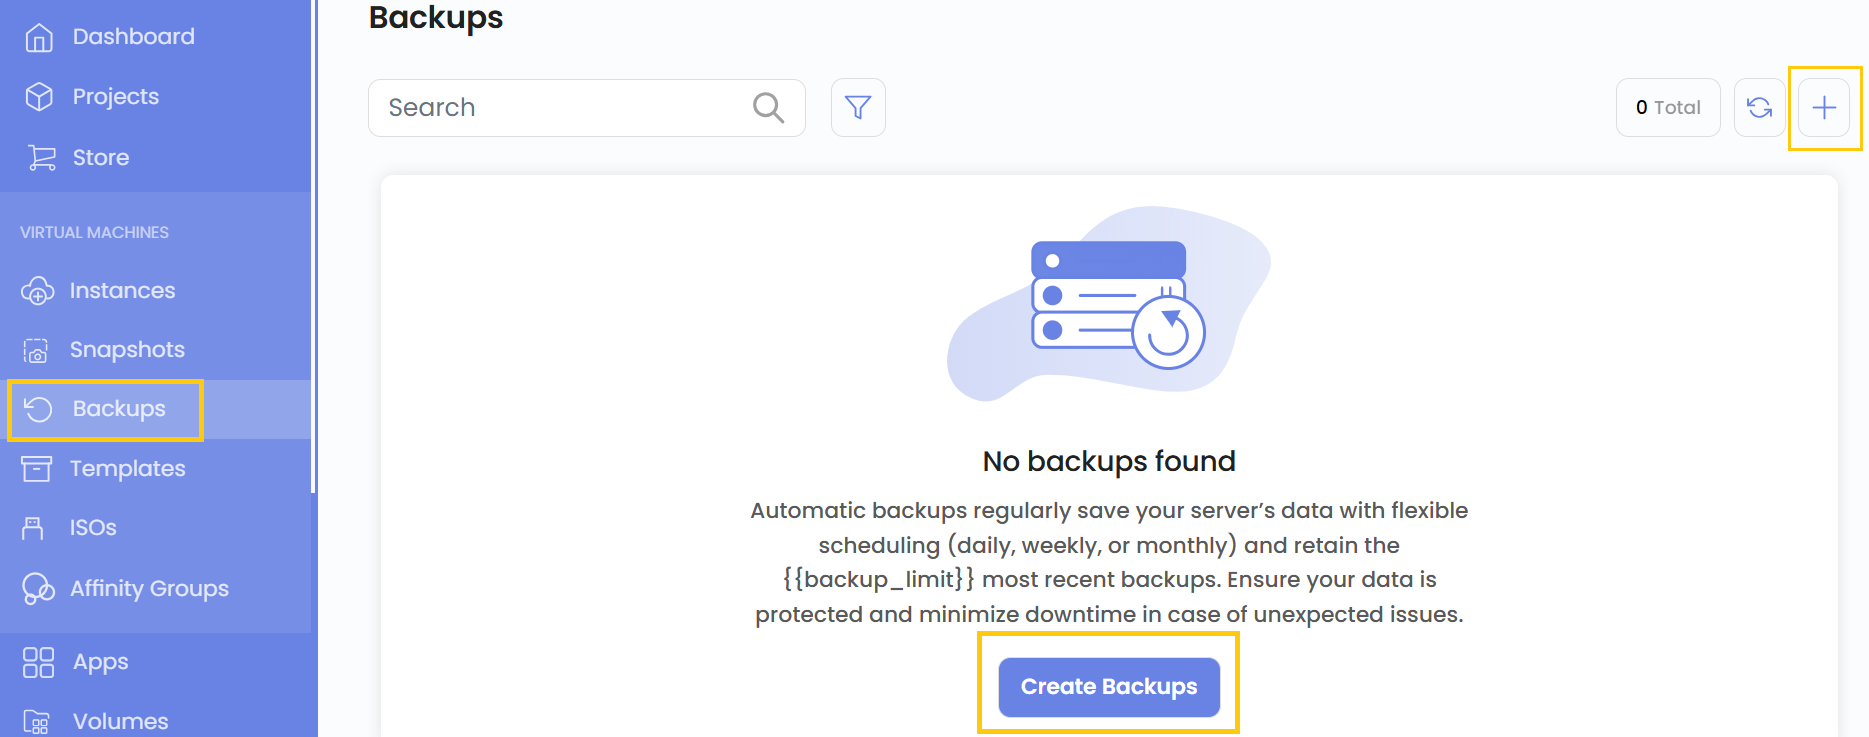
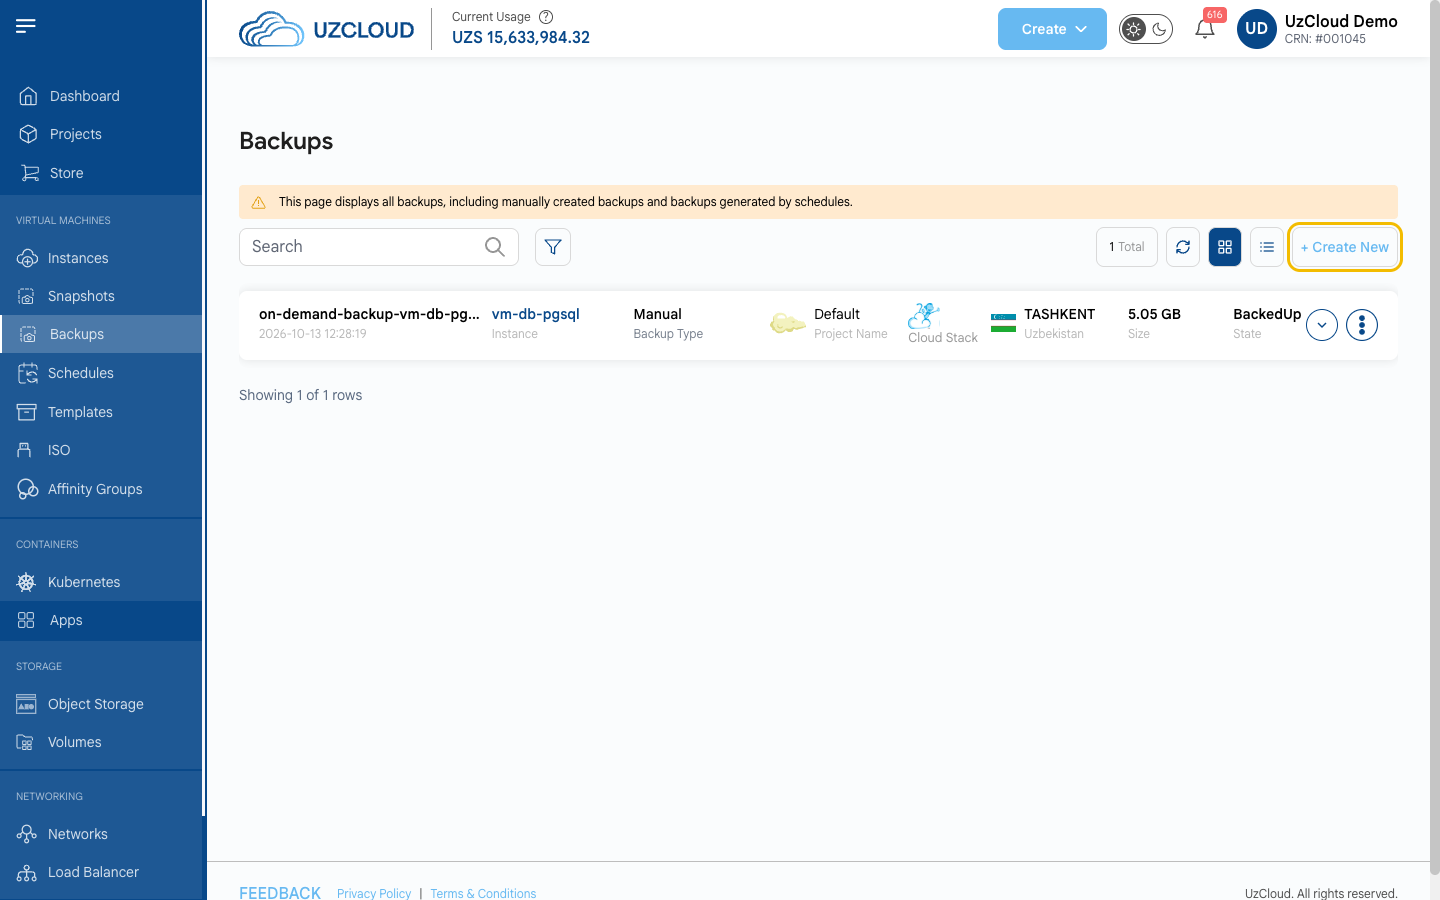
docs: update backups guide after console review

diff --git a/ru/backups/create-backups.md b/ru/backups/create-backups.md
@@ -2,57 +2,43 @@
 
 ## Резервные копии виртуальных машин
 
-**Резервные копии** сохраняют данные виртуальной машины и защищают от случайного удаления, сбоев ПО и угроз безопасности. Включив резервное копирование, вы всегда будете иметь версию ВМ, из которой можно восстановиться.
+**Резервные копии** сохраняют данные виртуальной машины и защищают их от случайного удаления, сбоев ПО и угроз безопасности.
 
-**UzCloud** поддерживает автоматическое резервное копирование ежедневно, еженедельно или по собственному расписанию — данные можно восстановить без ручной работы. Резервное копирование критически важно для защиты данных и сокращения простоев при непредвиденных проблемах.
+Резервную копию можно создать вручную в любой момент или настроить автоматическое создание по расписанию в разделе **Schedules**.
 
 ---
 
-### Создание резервной копии ВМ
+### Просмотр резервных копий
 
-- В меню слева откройте вкладку **Backups**.
-- Чтобы создать резервную копию, нажмите **Create Backups** или значок **плюс (+)** в правой части страницы. Откроется меню создания резервной копии.
+- В меню слева нажмите **Backups**. На странице отображаются все резервные копии — созданные вручную и по расписанию: ВМ, тип копии (например, **Manual**), проект, расположение, размер и состояние.
+- Нажмите **+ Create New**, чтобы создать резервную копию.
 
-![Страница резервных копий](../../images/backups-1.png)
+![Резервные копии](../../images/backups-1.png)
 
-### Выбор расположения
+### Создание резервной копии вручную
 
-- Выберите дата-центр, в котором будет физически размещен ресурс.
-- Выберите одно из доступных расположений.
-
-![Выбор расположения](../../images/backups-2.png)
-
-### Привязка к проекту
+> [!NOTE]
+> Отдельные резервные копии создаются вручную и не связаны с расписаниями резервного копирования.
 
 - Выберите проект, в котором находится виртуальная машина.
 
-![Привязка к проекту](../../images/backups-3.png)
+![Выбор проекта](../../images/backups-2.png)
 
-### Выбор виртуальной машины
+- Выберите расположение ВМ.
 
-- В списке **Instances** выберите виртуальную машину, для которой нужно создать резервную копию.
+![Выбор расположения](../../images/backups-3.png)
 
-![Выбор ВМ](../../images/backups-4.png)
+- В блоке **Select Instance to Create Backup** выберите виртуальную машину.
+- Проверьте **Price Summary** (стоимость рассчитывается за ГБ диска в час) и нажмите **Review & Create**.
 
-### Расписание резервного копирования
-
-- Задайте периодичность резервного копирования: интервалы и время создания копий.
-
-> [!NOTE]
-> Автоматическое резервное копирование стоит 20% от цены виртуальной машины.
-
-- Чтобы сразу сделать резервную копию при создании расписания, выберите **Take One Immediate**.
-
-![Расписание резервного копирования](../../images/backups-5.png)
-
-### Создание резервной копии
-
-- Выберите нужный **Billing Cycle**. Для снимков и резервных копий поддерживается только почасовая оплата и единственное правило биллинга — Fixed Prorata.
-- Для снимков ВМ, снимков блочного хранилища и резервных копий ВМ поддерживается только один пакет на зону. Автоматические резервные копии ВМ, если они включены администратором, стоят 20% от цены виртуальной машины.
-- Проверьте все параметры и итоговую стоимость. Нажмите **Create Backup**, чтобы создать резервную копию виртуальной машины.
-
-![Создание резервной копии](../../images/backups-6.png)
+![Создание резервной копии](../../images/backups-4.png)
 
 ### Заключение
 
-Следуя этому руководству, вы легко создадите резервные копии в UzCloud и сможете управлять ими. Резервные копии — надежный способ защиты данных и быстрого восстановления после случайного удаления, сбоев ПО или угроз безопасности. Если нужна помощь, изучите документацию UzCloud или обратитесь в поддержку.
+Резервные копии — надежный способ защитить данные и быстро восстановиться после сбоев. Если нужна помощь, изучите документацию UzCloud или обратитесь в поддержку.
+
+> [!TIP]
+> **См. также:**
+>
+> - **[Резервные копии ВМ](../compute/instance-backups.md)**
+> - **[Снимок ВМ](../vm-snapshots/create-instance-snapshot.md)**

diff --git a/uz/backups/create-backups.md b/uz/backups/create-backups.md
@@ -2,57 +2,43 @@
 
 ## Virtual mashinalarning zaxira nusxalari
 
-**Zaxira nusxalar** virtual mashina maʼlumotlarini saqlaydi va tasodifiy oʻchirish, dasturiy nosozliklar va xavfsizlik tahdidlaridan himoya qiladi. Zaxiralashni yoqib, siz har doim tiklash mumkin boʻlgan VM versiyasiga ega boʻlasiz.
+**Zaxira nusxalar** virtual mashina maʼlumotlarini saqlaydi va ularni tasodifiy oʻchirish, dasturiy nosozliklar va xavfsizlik tahdidlaridan himoya qiladi.
 
-**UzCloud** har kuni, har hafta yoki oʻz jadvalingiz boʻyicha avtomatik zaxiralashni qoʻllab-quvvatlaydi — maʼlumotlarni qoʻlda ishlamasdan tiklash mumkin. Zaxiralash maʼlumotlarni himoya qilish va kutilmagan muammolarda ishlamay qolish vaqtini qisqartirish uchun juda muhim.
+Zaxira nusxani istalgan vaqtda qoʻlda yaratish yoki **Schedules** boʻlimida jadval boʻyicha avtomatik yaratishni sozlash mumkin.
 
 ---
 
-### VM zaxira nusxasini yaratish
+### Zaxira nusxalarni koʻrish
 
-- Chap menyuda **Backups** yorligʻini oching.
-- Zaxira nusxa yaratish uchun sahifaning oʻng tomonidagi **Create Backups** yoki **plyus (+)** belgisini bosing. Zaxira nusxa yaratish menyusi ochiladi.
+- Chap menyuda **Backups** ni bosing. Sahifada barcha zaxira nusxalar — qoʻlda va jadval boʻyicha yaratilganlari koʻrsatiladi: VM, nusxa turi (masalan, **Manual**), loyiha, joylashuv, hajm va holat.
+- Zaxira nusxa yaratish uchun **+ Create New** tugmasini bosing.
 
-![Zaxira nusxalar sahifasi](../../images/backups-1.png)
+![Zaxira nusxalar](../../images/backups-1.png)
 
-### Joylashuvni tanlash
+### Zaxira nusxani qoʻlda yaratish
 
-- Resurs jismoniy joylashadigan maʼlumotlar markazini tanlang.
-- Mavjud joylashuvlardan birini tanlang.
-
-![Joylashuvni tanlash](../../images/backups-2.png)
-
-### Loyihaga biriktirish
+> [!NOTE]
+> Alohida zaxira nusxalar qoʻlda yaratiladi va zaxiralash jadvallariga bogʻlanmagan.
 
 - Virtual mashina joylashgan loyihani tanlang.
 
-![Loyihaga biriktirish](../../images/backups-3.png)
+![Loyihani tanlash](../../images/backups-2.png)
 
-### Virtual mashinani tanlash
+- VM joylashuvini tanlang.
 
-- **Instances** roʻyxatidan zaxira nusxasi yaratiladigan virtual mashinani tanlang.
+![Joylashuvni tanlash](../../images/backups-3.png)
 
-![VM’ni tanlash](../../images/backups-4.png)
+- **Select Instance to Create Backup** blokida virtual mashinani tanlang.
+- **Price Summary** ni tekshiring (narx diskning har bir GB uchun soatiga hisoblanadi) va **Review & Create** tugmasini bosing.
 
-### Zaxiralash jadvali
-
-- Zaxiralash davriyligini belgilang: intervallar va nusxalar yaratilish vaqti.
-
-> [!NOTE]
-> Avtomatik zaxiralash virtual mashina narxining 20% ini tashkil qiladi.
-
-- Jadval yaratish bilan birga darhol zaxira nusxa olish uchun **Take One Immediate** ni tanlang.
-
-![Zaxiralash jadvali](../../images/backups-5.png)
-
-### Zaxira nusxani yaratish
-
-- Kerakli **Billing Cycle** ni tanlang. Snapshotlar va zaxira nusxalar uchun faqat soatlik toʻlov va yagona billing qoidasi — Fixed Prorata qoʻllab-quvvatlanadi.
-- VM snapshotlari, blokli xotira snapshotlari va VM zaxira nusxalari uchun har bir zonada faqat bitta paket qoʻllab-quvvatlanadi. Avtomatik VM zaxira nusxalari administrator tomonidan yoqilgan boʻlsa, virtual mashina narxining 20% ini tashkil qiladi.
-- Barcha parametrlarni va umumiy narxni tekshiring. Virtual mashinaning zaxira nusxasini yaratish uchun **Create Backup** tugmasini bosing.
-
-![Zaxira nusxani yaratish](../../images/backups-6.png)
+![Zaxira nusxa yaratish](../../images/backups-4.png)
 
 ### Xulosa
 
-Ushbu qoʻllanmaga amal qilib, siz UzCloud’da zaxira nusxalarni osongina yaratishingiz va boshqarishingiz mumkin. Zaxira nusxalar maʼlumotlarni himoya qilish va tasodifiy oʻchirish, dasturiy nosozliklar yoki xavfsizlik tahdidlaridan keyin tez tiklashning ishonchli usulidir. Yordam kerak boʻlsa, UzCloud hujjatlarini oʻrganing yoki qoʻllab-quvvatlash xizmatiga murojaat qiling.
+Zaxira nusxalar maʼlumotlarni himoya qilish va nosozliklardan keyin tez tiklashning ishonchli usulidir. Yordam kerak boʻlsa, UzCloud hujjatlarini oʻrganing yoki qoʻllab-quvvatlash xizmatiga murojaat qiling.
+
+> [!TIP]
+> **Shuningdek qarang:**
+>
+> - **[VM zaxira nusxalari](../compute/instance-backups.md)**
+> - **[VM snapshoti](../vm-snapshots/create-instance-snapshot.md)**

diff --git a/en/backups/create-backups.md b/en/backups/create-backups.md
@@ -2,57 +2,43 @@
 
 ## Instance Backups
 
-**Backups** create copies of your instance’s data to protect against accidental deletions, software failures, or security threats. By enabling backups, you ensure that a restorable version of your VM is always available if needed.
+**Backups** are copies of your instance's data that protect it against accidental deletions, software failures, or security threats.
 
-**UzCloud** provides automated backup options on a daily, weekly, or custom schedule, allowing for seamless data recovery without manual intervention. Implementing backups is crucial for safeguarding your data and reducing downtime in case of unexpected issues.
+You can create a backup manually at any time, or create backups automatically on a schedule in the **Schedules** section.
 
 ---
 
-### Creating Backup of an Instance
+### Viewing Backups
 
-- From the left-hand side menu, click on the **Backups** tab.
-- To create backups, click the **Create Backups** or **plus (+)** icon located on the right side of the page. This will open the backups creation menu.
+- From the left-hand menu, click **Backups**. The page shows all backups, including manually created ones and backups generated by schedules: the instance, backup type (for example, **Manual**), project, location, size and state.
+- Click **+ Create New** to create a backup.
 
-![Backups Page](../../images/backups-1.png)
+![Backups](../../images/backups-1.png)
 
-### Choose a Location
+### Creating an On-Demand Backup
 
-- Select the data center location where your server will be physically hosted.
-- Choose from the available locations listed.
-
-![Choose Location](../../images/backups-2.png)
-
-### Assign to a Project
+> [!NOTE]
+> Individual backups are created manually on demand and are not tied to any backup schedule.
 
 - Select the project that contains the virtual machine you want to back up.
 
-![Assign to Project](../../images/backups-3.png)
+![Choose Project](../../images/backups-2.png)
 
-### Choose Instance
+- Select the location where the instance is located.
 
-- From the **Instances** list, select the virtual machine instance for which you want to create a backup.
+![Choose Location](../../images/backups-3.png)
 
-![Choose Instance](../../images/backups-4.png)
+- In **Select Instance to Create Backup**, select the virtual machine.
+- Check the **Price Summary** (the cost is calculated per GB of the disk per hour) and click **Review & Create**.
 
-### Schedule a Backup
-
-- Set how often you want to back up by configuring intervals and specifying the time backups should be created.
-
-> [!NOTE]
-> Automatic backups cost 20% of the virtual machine’s price.
-
-- If you want to take a backup immediately while creating the schedule, select the **Take One Immediate** button.
-
-![Schedule Backup](../../images/backups-5.png)
-
-### Create Backup
-
-- Choose the desired **Billing Cycle** for your backup. Snapshots and backups support only Hourly billing cycles. The only billing rule supported is Fixed Prorata.
-- Only one package per zone is supported for VM Snapshot, BS Snapshot, and VM Backup. Automatic VM backups cost 20% of the virtual machine price if enabled from the admin.
-- Verify all the configuration details and review the price summary. Click on **Create Backup** to create the backup of the virtual machine instance.
-
-![Create Backup](../../images/backups-6.png)
+![Create Backup](../../images/backups-4.png)
 
 ### Conclusion
 
-By following this guide, you can easily create and manage backups on UzCloud. Backups provide a reliable way to protect your data, ensuring quick recovery in case of accidental deletions, software failures, or security threats. For further assistance, refer to the UzCloud documentation or reach out to support.
+Backups are a reliable way to protect your data and recover quickly after failures. For further assistance, refer to the UzCloud documentation or reach out to support.
+
+> [!TIP]
+> **See also:**
+>
+> - **[Instance Backups](../compute/instance-backups.md)**
+> - **[VM Snapshot](../vm-snapshots/create-instance-snapshot.md)**
